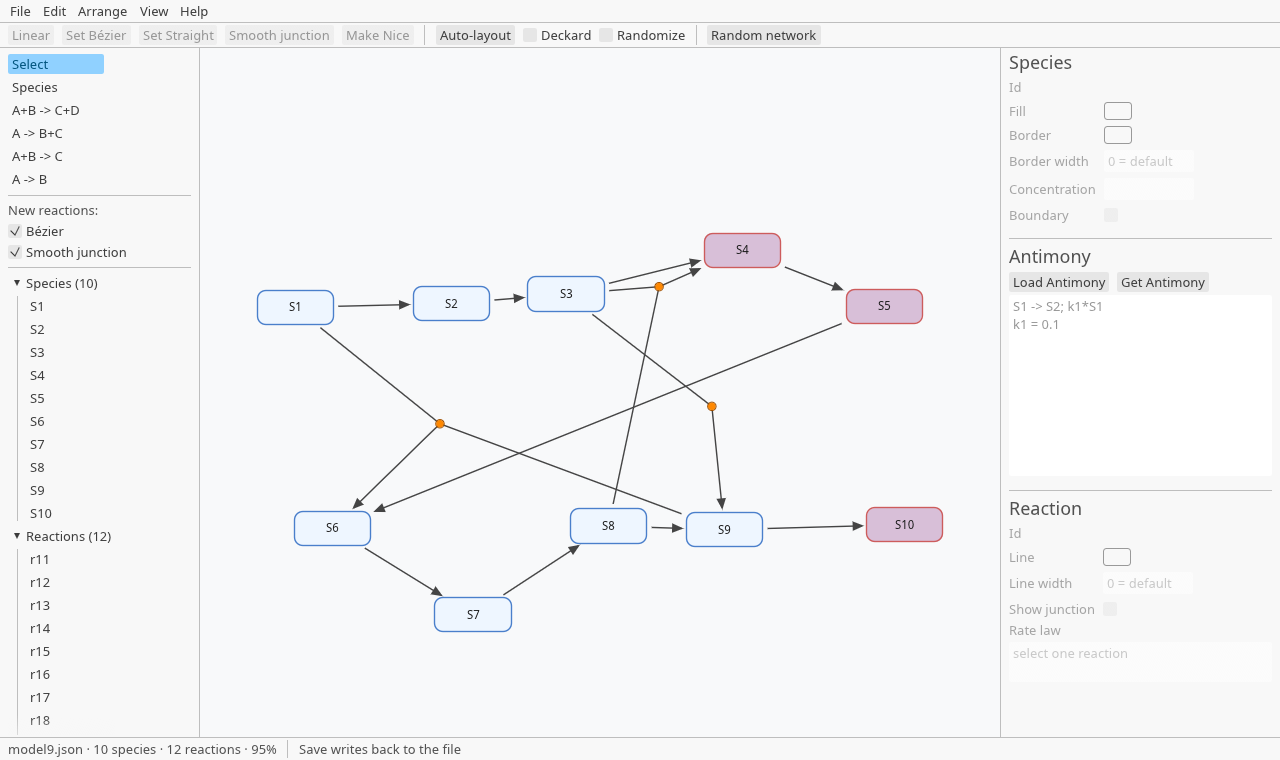
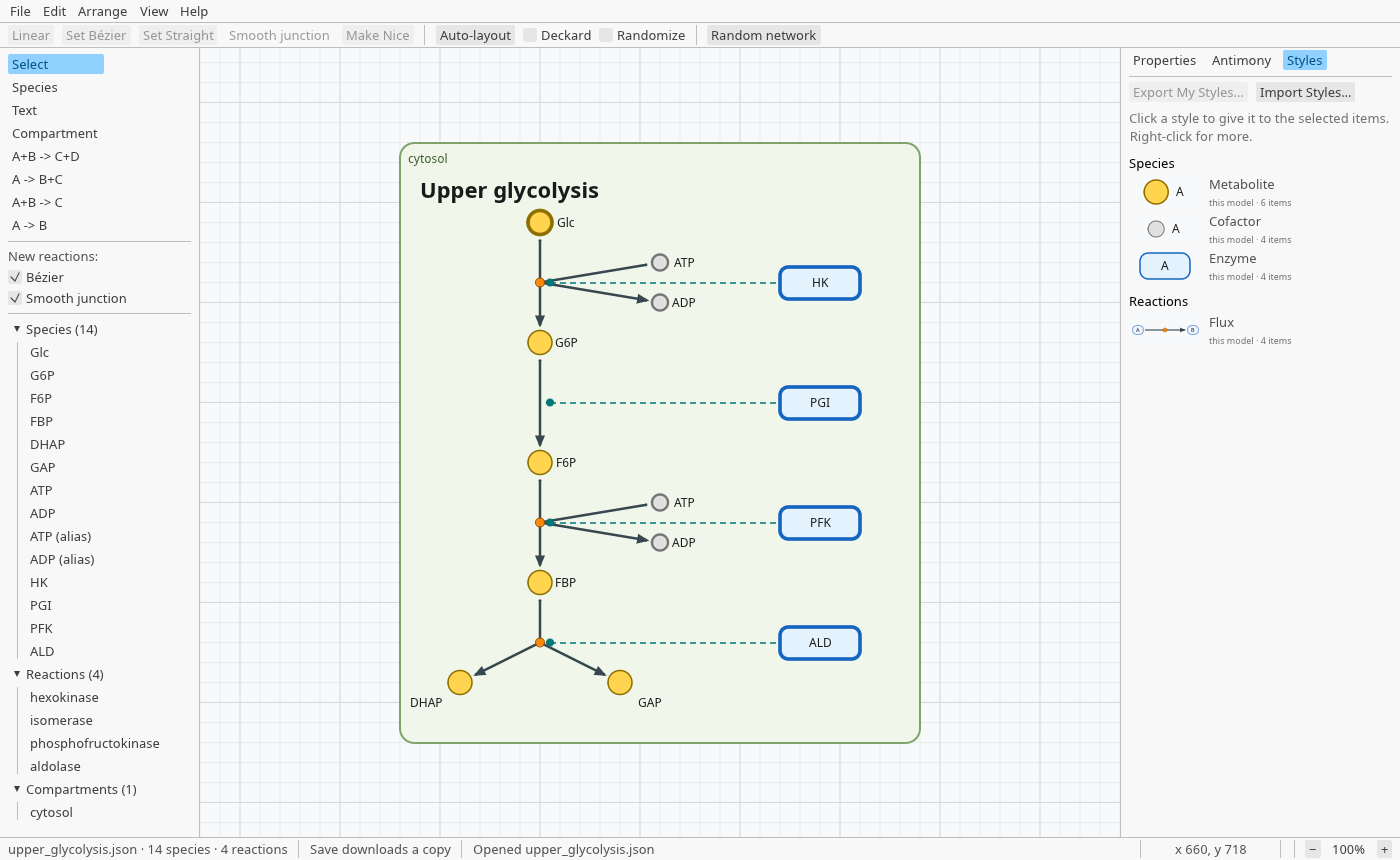
README: describe the new features; a new screenshot
The feature list now covers aliases' commands, compartments, free text,
shapes and resizing, names outside the node, Copy/Paste Style, saved
styles, Arrange in Circle, the grid and Snap to grid; the key tables,
the Status paragraph and the .wasm size are brought up to date, and a
typo fixed. The screenshot shows upper glycolysis in a compartment with
Escher-style metabolites, saved styles in the Styles tab, and the grid.

diff --git a/README.md b/README.md
@@ -8,7 +8,7 @@ biology world as Antimony or SBML with layout.
 It is written in Rust with [egui](https://github.com/emilk/egui). The same code
 runs in the browser and as a desktop app for Windows, macOS and Linux.
 
-This was developed with the assistance of claude. Stop here is you aren't comfortable with AI assisted code generation.
+This was developed with the assistance of claude. Stop here if you aren't comfortable with AI assisted code generation.
 
 **Try it:** https://sys-bio.github.io/PathwayDesigner-rs/
 
@@ -36,25 +36,54 @@ Delphi version does, and some more (see [Status](#status)).
 - Three ways to draw a reaction: **Straight** (legs meet at a junction), **Linear**
   (one straight line, for A → B), and **Bézier** curves with handles you can drag,
   optionally with a smooth junction.
-- **Aliases** (a second drawing of the same species), **modifiers** (drawn as
-  dashed arcs, found from the rate law), and **null nodes** for sources and sinks.
-- An inspector for colours, line widths, initial values, boundary species and
-  rate laws, with errors in a rate law shown as you type.
-- A model tree listing every species and reaction, usable from the keyboard.
+- **Aliases** (a second drawing of the same species), with commands to split a
+  species into aliases, split off chosen reactions, and merge aliases back.
+- **Modifiers** (drawn as dashed arcs, found from the rate law), and **null
+  nodes** for sources and sinks.
+- **Compartments**, drawn as boxes you can move and resize; species move with
+  their compartment, and a box can be hidden.
+- **Free text** for titles and notes, with typeface, size, bold, italic, colour,
+  alignment and wrapping.
+- A right-hand panel with **Properties** for what is selected (colours, line and
+  border widths, values, boundary species, rate laws, with errors in a rate law
+  shown as you type), the live **Antimony** text, and the saved **Styles**.
+- A model tree listing every species, reaction and compartment, usable from the
+  keyboard.
 - Undo and redo for every change.
+
+**How things look**
+- Species **shapes**: rounded rectangle, rectangle, ellipse, circle or hexagon;
+  **resize** them by their corners or by number, or fit them to their names.
+- Fill, border colour, border width (0 for no border), solid or dashed border,
+  label colour and font size, for each item.
+- **Names outside the node**, as in Escher's metabolic maps: small circles with
+  their names beside them, each name dragged where you want it.
+- **Copy Style** and **Paste Style** (Ctrl+Alt+C, Ctrl+Alt+V) copy a look from one
+  item to others, like a format painter; an alias can take its species' look.
+- **Saved styles**: keep a look under a name and give it to other items, which then
+  follow it, so changing the style changes them all. Styles are kept with the app
+  ("My Styles") and saved in the model file for the styles it uses, so a model
+  given to someone else carries them. Edit a style directly, and export and import
+  styles to share them.
 
 **Layout**
 - Force-directed **auto-layout**, animated, with an optional pass that shapes the
   Bézier curves. Locked nodes stay where they are.
-- **Align and distribute** species and junctions, and nudge the selection with the
-  arrow keys.
+- **Align and distribute** species and junctions, and **Arrange in Circle**.
+- A **grid** to line things up, and **Snap to grid**: dragged items, new items,
+  corners, Bézier handles, names and arrow-key moves land on grid points (hold Alt
+  to place freely).
+- Nudge the selection with the arrow keys.
+- The pointer's position on the diagram is shown in the status bar.
 - A random network generator, for trying things out.
 
 **Files**
-- PathwayDesigner's own JSON format, compatible with the Delphi version's files.
+- PathwayDesigner's own JSON format. It reads the Delphi version's files, and a
+  model that uses nothing new is still saved in the Delphi version's format.
 - **Antimony**: import and export, with a live Antimony panel next to the drawing.
 - **SBML** Level 2 and Level 3: import and export, including the **Layout**
-  package, so positions, aliases and curves survive the round trip.
+  package, so positions, aliases and curves survive the round trip; shapes, names
+  outside the node and compartment boxes come back too.
 - **Graphics**: SVG, PNG at any resolution, and vector PDF (Letter, A4 or the
   drawing's own size), and printing.
 
@@ -79,14 +108,18 @@ turn. **Select** is for selecting, dragging and editing. Esc goes back to Select
 
 The toolbar shapes the selected reactions (Linear, Bézier, Straight, smooth
 junction, Make Nice) and runs the auto-layout. Right-click a species or a reaction
-for more: aliases, renaming, locking, alignment.
+for more: aliases, renaming, locking, alignment, styles. The View menu has the
+grid, Snap to grid, zoom, and switches for the alias indicator and modifier
+lines.
 
 | Mouse | |
 |---|---|
 | Click, Shift-click | Select; add to or take from the selection |
 | Drag on empty canvas | Select everything in a rectangle |
-| Drag a species, junction or handle | Move it |
-| Double-click a species | Rename it |
+| Drag a species, junction, handle, text or name | Move it |
+| Drag a corner of a selected species or compartment | Resize it (Shift keeps the proportions) |
+| Alt + drag | Place freely while Snap to grid is on |
+| Double-click a species | Rename it (a text: edit its words) |
 | Right-click | The menu for what is under the pointer |
 | Wheel, or two-finger scroll | Pan (Shift: sideways) |
 | Ctrl + wheel, or pinch | Zoom, keeping the point under the pointer still |
@@ -97,7 +130,8 @@ for more: aliases, renaming, locking, alignment.
 | Ctrl+Z, Ctrl+Shift+Z or Ctrl+Y | Undo, redo |
 | Ctrl+A | Select all (Edit also has Select All Species and Select All Reactions) |
 | Delete, Backspace | Delete the selection |
-| Arrow keys, Shift + arrow keys | Nudge the selection 1 unit, 10 units |
+| Arrow keys, Shift + arrow keys | Nudge the selection 1 unit, 10 units; with Snap to grid, one grid line, five (Alt for 1 and 10) |
+| Ctrl+Alt+C, Ctrl+Alt+V | Copy Style, Paste Style |
 | Esc | Cancel, back to the Select tool |
 | Ctrl+S, Ctrl+Shift+S | Save, Save As |
 | Ctrl+O, Ctrl+N | Open, New (in a browser, Ctrl+N opens a new browser window: use File ▸ New) |
@@ -184,8 +218,10 @@ installer has been tried by hand.
 
 Beyond the Delphi version, this one adds SBML import, SVG export, a drawing-sized
 PDF page, the model tree, animated auto-layout, keyboard nudging, aligning
-junctions, offline use and autosave, and fixes the defects listed in
-SPECIFICATION.md §15.
+junctions, Arrange in Circle, more alias commands, drawn compartments, free text,
+species shapes and resizing, names outside the node, Copy and Paste Style, saved
+styles, the grid and Snap to grid, offline use and autosave, and fixes the defects
+listed in SPECIFICATION.md §15.
 
 ## Documents
 
@@ -228,7 +264,7 @@ The files are:
 | File | What it is |
 |---|---|
 | `index.html` | The page |
-| `pathway-designer-<hash>.js` and `pathway-designer-<hash>_bg.wasm` | The app (the `.wasm` file is about 10 MB) |
+| `pathway-designer-<hash>.js` and `pathway-designer-<hash>_bg.wasm` | The app (the `.wasm` file is about 15 MB) |
 | `sw.js` | Lets the app work offline |
 | `THIRD-PARTY.html` | The licences of the software it is built from |
 | `README.md` | These instructions |
